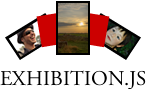
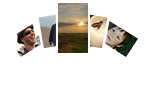
demo page changed.

Changed region(s): [[0.0274, 0.0, 0.9863, 0.6742], [0.0, 0.7865, 1.0, 1.0]]

diff --git a/Demos/index.html b/Demos/index.html
@@ -35,24 +35,56 @@
 
             <div id="main">
 	            <div id="container">
-					<ul id="exhibition">
-						<li><a href="#"><img src="images/img_tn1.jpg" width="152" height="228" /></a></li>
-						<li><a href="#"><img src="images/img_tn2.jpg" width="218" height="147" /></a></li>
-						<li><a href="#"><img src="images/img_tn3.jpg" width="154" height="191" /></a></li>
-						<li><a href="#"><img src="images/img_tn4.jpg" width="167" height="233" /></a></li>
-						<li><a href="#"><img src="images/img_tn5.jpg" width="301" height="187" /></a></li>
-						<li><a href="#"><img src="images/img_tn6.jpg" width="167" height="221" /></a></li>
-						<li><a href="#"><img src="images/img_tn7.jpg" width="251" height="167" /></a></li>
-						<li><a href="#"><img src="images/img_tn8.jpg" width="182" height="213" /></a></li>
-						<li><a href="#"><img src="images/img_tn9.jpg" width="249" height="178" /></a></li>
-						<li><a href="#"><img src="images/img_tn10.jpg" width="159" height="238" /></a></li>
-						<li><a href="#"><img src="images/img_tn11.jpg" width="233" height="153" /></a></li>
+					<ul id="exhibition1" class="exhibition">
+						<li><a href="#"><img src="images/home/img_tn1.jpg" width="152" height="228" /></a></li>
+						<li><a href="#"><img src="images/home/img_tn2.jpg" width="218" height="147" /></a></li>
+						<li><a href="#"><img src="images/home/img_tn3.jpg" width="154" height="191" /></a></li>
+						<li><a href="#"><img src="images/home/img_tn4.jpg" width="167" height="233" /></a></li>
+						<li><a href="#"><img src="images/home/img_tn5.jpg" width="301" height="187" /></a></li>
+						<li><a href="#"><img src="images/home/img_tn6.jpg" width="167" height="221" /></a></li>
+						<li><a href="#"><img src="images/home/img_tn7.jpg" width="251" height="167" /></a></li>
+						<li><a href="#"><img src="images/home/img_tn8.jpg" width="182" height="213" /></a></li>
+						<li><a href="#"><img src="images/home/img_tn9.jpg" width="249" height="178" /></a></li>
+						<li><a href="#"><img src="images/home/img_tn10.jpg" width="159" height="238" /></a></li>
+						<li><a href="#"><img src="images/home/img_tn11.jpg" width="233" height="153" /></a></li>
 					</ul>
-					<p class="control"><a id="prev"  href="#">prev</a><a id="next" href="#">next</a></p>
+
+
+					<ul id="exhibition2" class="exhibition">
+						<li><a href="#"><img src="images/home/img_tn1.jpg" width="152" height="228" /></a></li>
+						<li><a href="#"><img src="images/home/img_tn2.jpg" width="218" height="147" /></a></li>
+						<li><a href="#"><img src="images/home/img_tn3.jpg" width="154" height="191" /></a></li>
+						<li><a href="#"><img src="images/home/img_tn4.jpg" width="167" height="233" /></a></li>
+						<li><a href="#"><img src="images/home/img_tn5.jpg" width="301" height="187" /></a></li>
+						<li><a href="#"><img src="images/home/img_tn6.jpg" width="167" height="221" /></a></li>
+						<li><a href="#"><img src="images/home/img_tn7.jpg" width="251" height="167" /></a></li>
+						<li><a href="#"><img src="images/home/img_tn8.jpg" width="182" height="213" /></a></li>
+						<li><a href="#"><img src="images/home/img_tn9.jpg" width="249" height="178" /></a></li>
+						<li><a href="#"><img src="images/home/img_tn10.jpg" width="159" height="238" /></a></li>
+						<li><a href="#"><img src="images/home/img_tn11.jpg" width="233" height="153" /></a></li>
+					</ul>
+
+
+					<ul id="exhibition3" class="exhibition">
+						<li><a href="#"><img src="images/home/img_tn1.jpg" width="152" height="228" /></a></li>
+						<li><a href="#"><img src="images/home/img_tn2.jpg" width="218" height="147" /></a></li>
+						<li><a href="#"><img src="images/home/img_tn3.jpg" width="154" height="191" /></a></li>
+						<li><a href="#"><img src="images/home/img_tn4.jpg" width="167" height="233" /></a></li>
+						<li><a href="#"><img src="images/home/img_tn5.jpg" width="301" height="187" /></a></li>
+						<li><a href="#"><img src="images/home/img_tn6.jpg" width="167" height="221" /></a></li>
+						<li><a href="#"><img src="images/home/img_tn7.jpg" width="251" height="167" /></a></li>
+						<li><a href="#"><img src="images/home/img_tn8.jpg" width="182" height="213" /></a></li>
+						<li><a href="#"><img src="images/home/img_tn9.jpg" width="249" height="178" /></a></li>
+						<li><a href="#"><img src="images/home/img_tn10.jpg" width="159" height="238" /></a></li>
+						<li><a href="#"><img src="images/home/img_tn11.jpg" width="233" height="153" /></a></li>
+					</ul>
+
+
 	            </div>
             </div>
             <div id="footer">
 	            <div id="developer">
+	<p class="avatar"><a title="Noritaka Horio"  href="http://www.sharedhat.com/"><img src="http://www.gravatar.com/avatar/75c365184edfa72ae30d56199ca56450?s=60" /></a></p>
 					<ul>
 						<li><strong>author:</strong><a href="http://www.sharedhat.com/">Noritaka Horio</a></li>
 						<li><strong>blog:</strong><a title="sharedhat.com" href="http://www.sharedhat.com/">http://www.sharedhat.com/</a></li>

diff --git a/Demos/js/demo.js b/Demos/js/demo.js
@@ -1,21 +1,13 @@
 window.addEvent("domready", function() {
 
-	var exhibition = new Exhibition.Horizontal($("exhibition"), $("exhibition").getElements("li"), {
-		"onChange": function(index,element) {
-		},
-		"onNext": function(index,element) {
-		},
-		"onPrev": function(index,element) {
-		}
-	});
-	
-	$("prev").addEvent("click", function() {
-		exhibition.prev();
-	});
+	$("container").setStyle("height", window.innerHeight);
 
-	$("next").addEvent("click", function() {
-		exhibition.next();
+	var exhibitions = $$("ul.exhibition");
+	exhibitions.each(function(element, key) {
+		var container = element;
+		var images = element.getElements("li");
+		new Exhibition.Horizontal(container, images, {"defaultIndex": Math.round(images.length/2)});
 	});
 	
-	
+
 });

diff --git a/Demos/css/exhibition-home.css b/Demos/css/exhibition-home.css
@@ -1,31 +1,34 @@
 @charset "utf-8";
 
-ul#exhibition {
+div#container {
+	text-align: left;
+	margin: 0px auto;
+	overflow: hidden;
+}
+
+ul.exhibition {
 	overflow: hidden;
 	list-style: none;
 	position: relative;
+	margin-bottom: 40px;
 }
 
-ul#exhibition li {
+ul.exhibition li {
 	float: left;
 	position: absolute;
 }
 
-ul#exhibition li a {
+ul.exhibition li a {
 	display: block;
-	padding: 15px;
+	padding: 10px;
 	background: #333333;
+	color: #ffffff;
 }
 
-ul#exhibition li a:hover {
+ul.exhibitionli a:hover {
 	background: #3c94af;
 }
 
-ul#exhibition li.active a {
+ul.exhibition li.active a {
 	background: #3c94af;
-}
-
-p.control {
-	padding-top: 30px;
-	text-align: center;
 }

diff --git a/Demos/demo-vertical.html b/Demos/demo-vertical.html
@@ -43,6 +43,7 @@
             </div>
             <div id="footer">
 	            <div id="developer">
+	<p class="avatar"><a title="Noritaka Horio"  href="http://www.sharedhat.com/"><img src="http://www.gravatar.com/avatar/75c365184edfa72ae30d56199ca56450?s=60" /></a></p>
 					<ul>
 						<li><strong>author:</strong><a href="http://www.sharedhat.com/">Noritaka Horio</a></li>
 						<li><strong>blog:</strong><a title="sharedhat.com" href="http://www.sharedhat.com/">http://www.sharedhat.com/</a></li>

diff --git a/Demos/css/layout.css b/Demos/css/layout.css
@@ -44,6 +44,7 @@ div#sidebar {
 	left: 50px;
 	top: 0px;
 	z-index: 9999;
+	height: 100%;
 }
 
 div#sidebar h1 {
